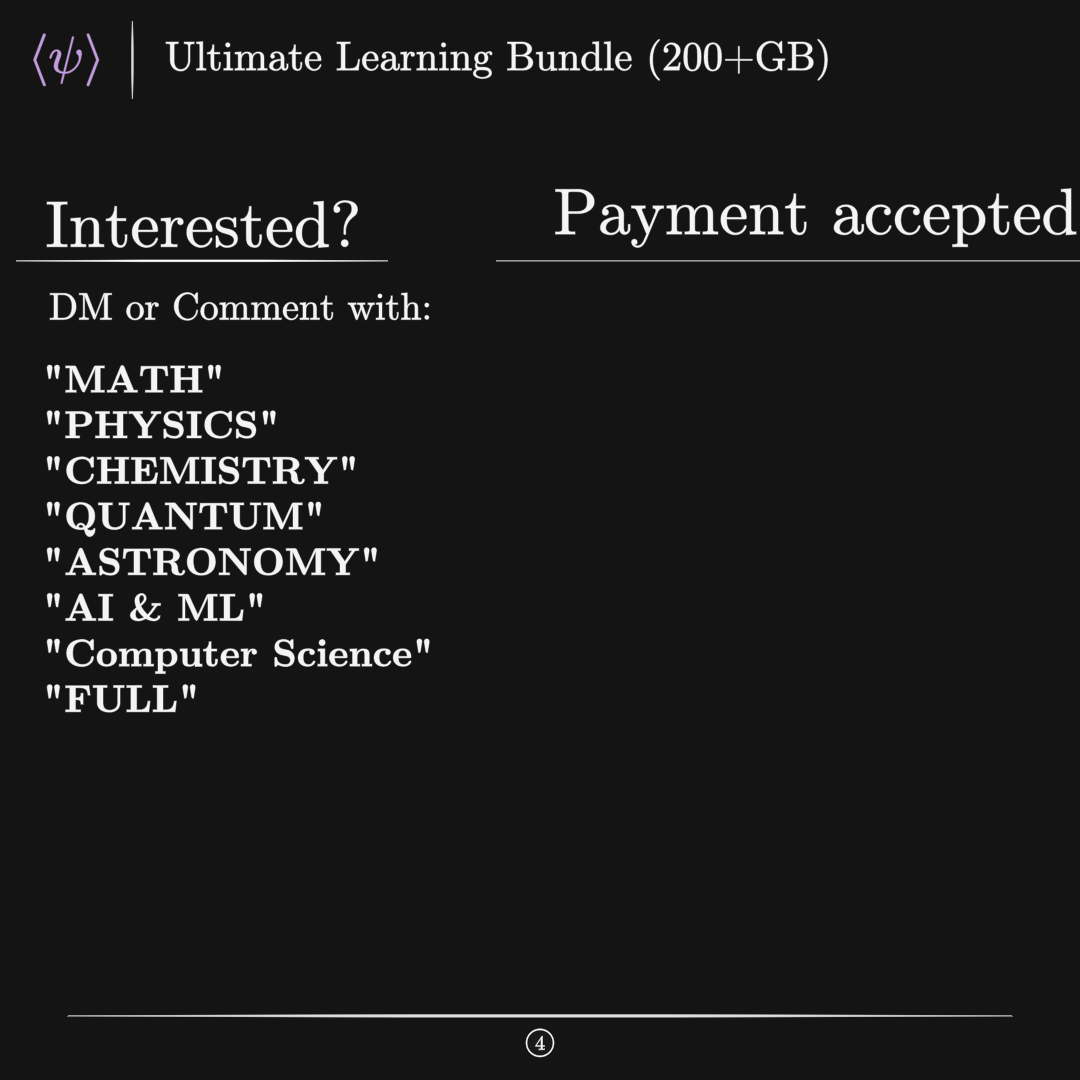
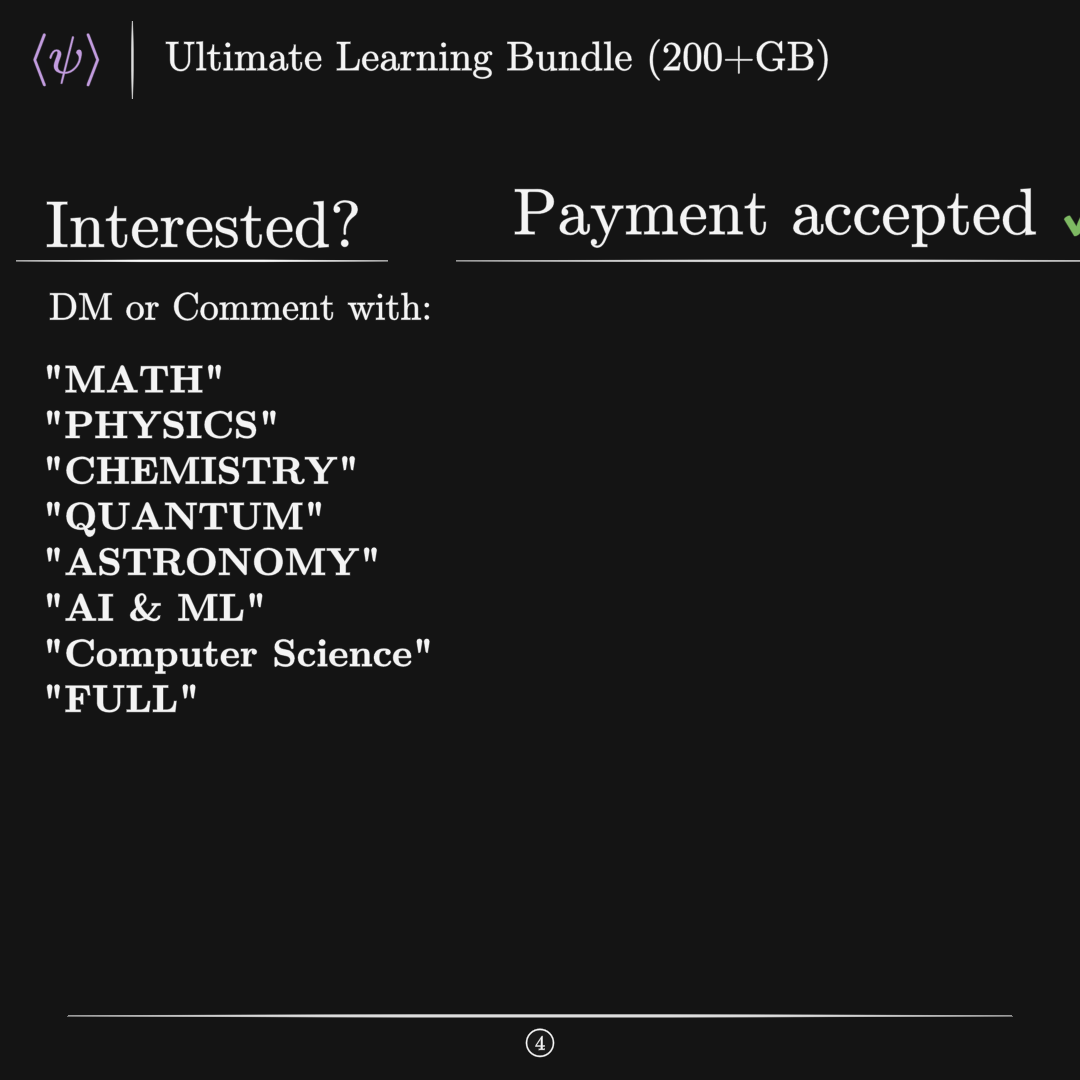
f

Changed region(s): [[0.4583, 0.1528, 1.0, 0.2444]]

diff --git a/test.py b/test.py
@@ -176,7 +176,8 @@ class Payment(PaidTemplate):
 
         payment_un = Line(LEFT, RIGHT)
         payment_un.set_width(payment.get_width() * 1.2)
+        payment_un.insert_n_curves(10)
         payment_un.set_stroke(width=[0.5, 1.5, 1.5, 0.5])
-        payment_un.next_to(under, RIGHT, buff=LARGE_BUFF * 0.8)
+        payment_un.next_to(under, RIGHT, buff=LARGE_BUFF * 0.5)
         payment.next_to(payment_un, UP, buff=SMALL_BUFF)
         self.add(payment, payment_un)
